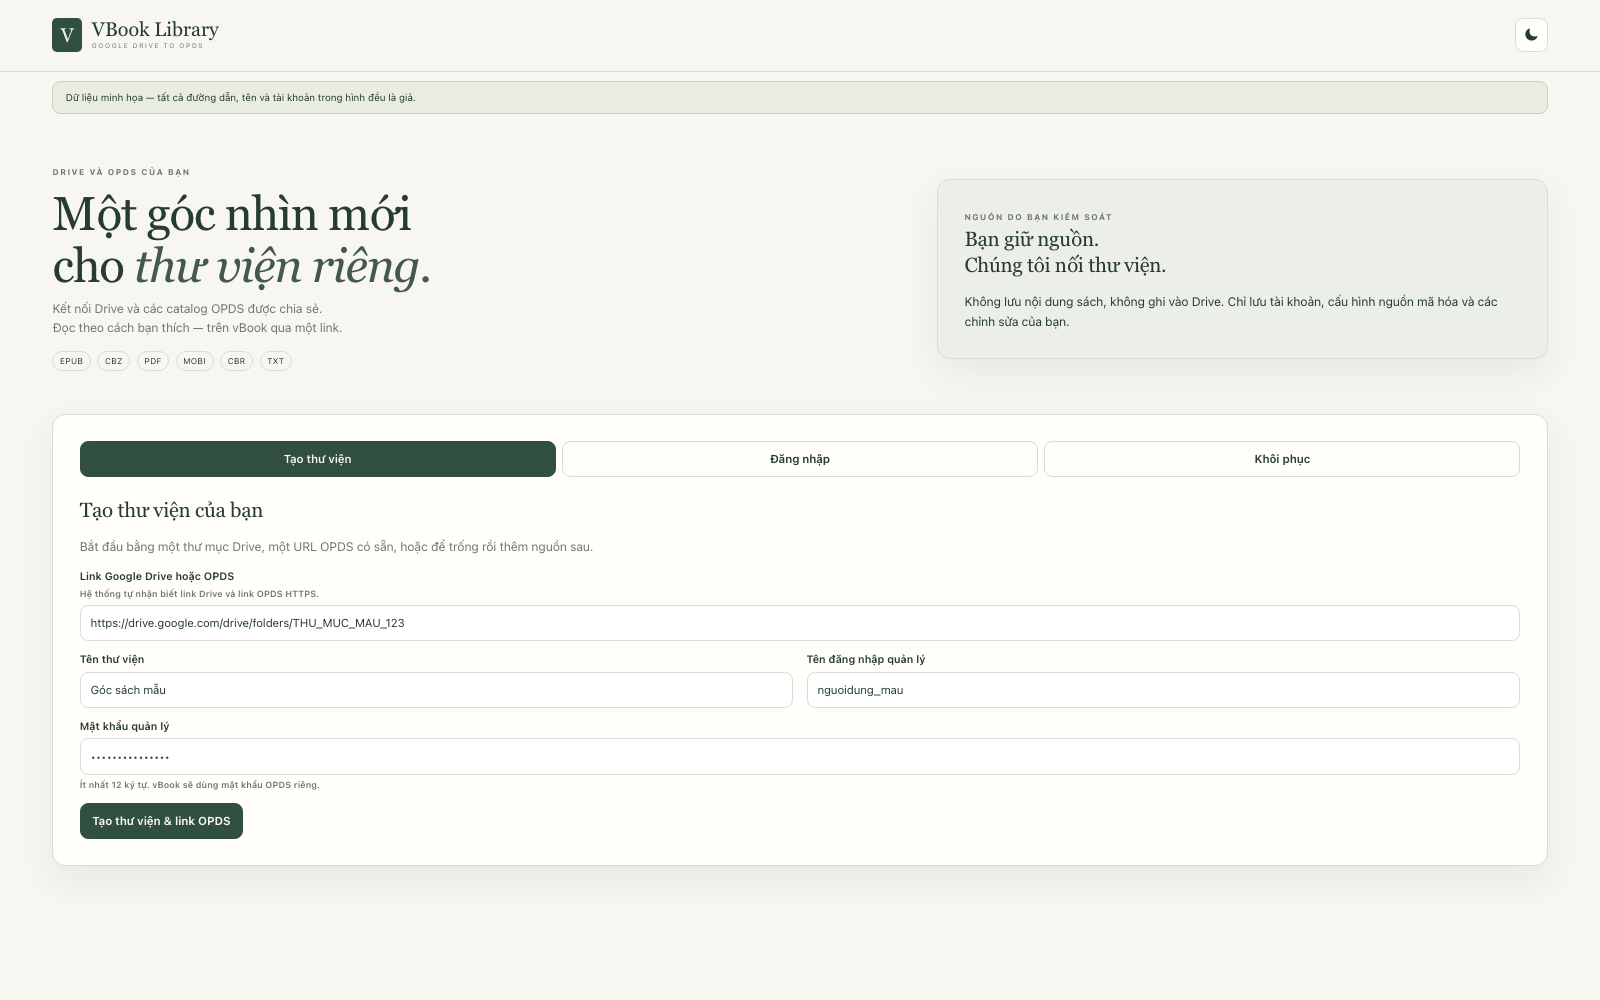
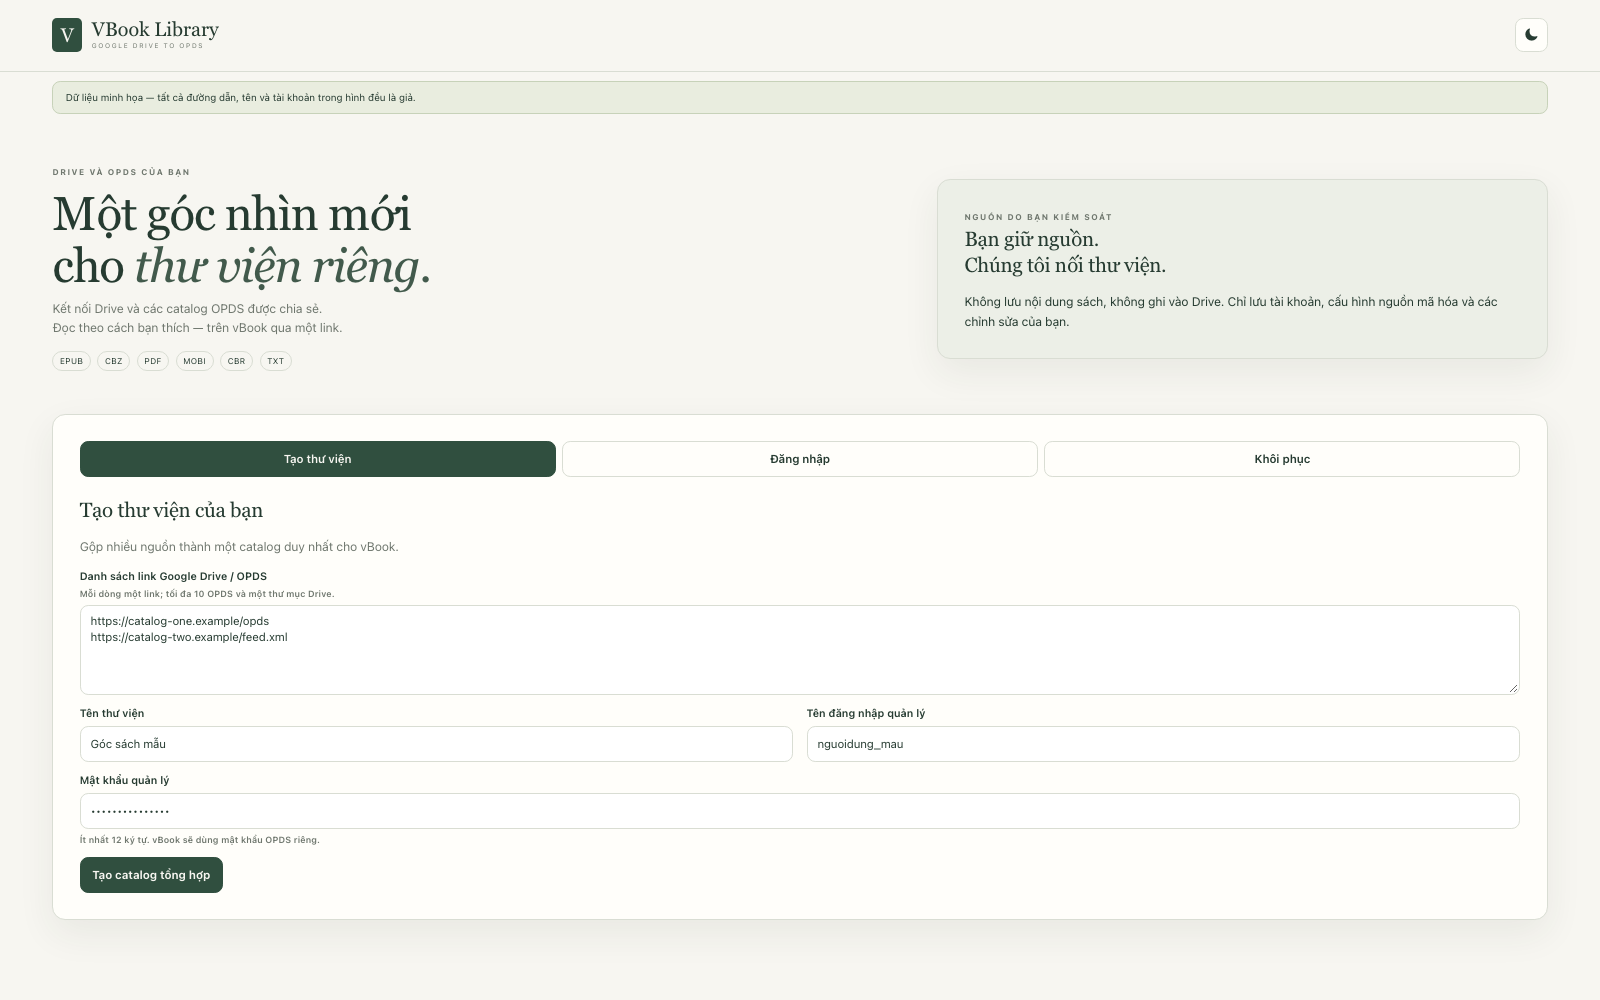
feat: create aggregate catalog from multiple OPDS URLs

Changed region(s): [[0.0312, 0.527, 0.3438, 0.899], [0.5, 0.651, 0.5938, 0.775]]

diff --git a/src/library-ui.ts b/src/library-ui.ts
@@ -4,7 +4,7 @@ export const libraryHtml = String.raw`<!doctype html>
 <main class="wrap"><div id="notice" role="status" aria-live="polite" hidden></div>
 <section id="welcome"><div class="hero"><div><p class="eyebrow">DRIVE VÀ OPDS CỦA BẠN</p><h1>Một góc nhìn mới<br>cho <em>thư viện riêng.</em></h1><p class="intro">Kết nối Drive và các catalog OPDS được chia sẻ.<br>Đọc theo cách bạn thích — trên vBook qua một link.</p><div class="tags"><span>EPUB</span><span>CBZ</span><span>PDF</span><span>MOBI</span><span>CBR</span><span>TXT</span></div></div><div class="intro-note"><span class="eyebrow">NGUỒN DO BẠN KIỂM SOÁT</span><h2>Bạn giữ nguồn.<br>Chúng tôi nối thư viện.</h2><p>Không lưu nội dung sách, không ghi vào Drive. Chỉ lưu tài khoản, cấu hình nguồn mã hóa và các chỉnh sửa của bạn.</p></div></div>
 <div class="entry-panel"><div class="tabs" role="group" aria-label="Truy cập thư viện"><button data-tab="create" class="active">Tạo thư viện</button><button data-tab="login">Đăng nhập</button><button data-tab="recovery">Khôi phục</button></div>
-<form id="create" class="access-form"><h2>Tạo thư viện của bạn</h2><p class="muted">Bắt đầu bằng một thư mục Drive, một URL OPDS có sẵn, hoặc để trống rồi thêm nguồn sau.</p><label>Link Google Drive hoặc OPDS <small>Hệ thống tự nhận biết link Drive và link OPDS HTTPS.</small><input name="drive" type="text" maxlength="2048" placeholder="https://drive.google.com/drive/folders/… hoặc https://catalog.example/opds"></label><div class="form-grid"><label>Tên thư viện<input name="name" required maxlength="120" placeholder="Góc sách của tôi"></label><label>Tên đăng nhập quản lý<input name="username" required maxlength="80" autocomplete="username"></label></div><label>Mật khẩu quản lý<input name="password" type="password" required minlength="12" maxlength="256" autocomplete="new-password"><small>Ít nhất 12 ký tự. vBook sẽ dùng mật khẩu OPDS riêng.</small></label><button class="primary" type="submit">Tạo thư viện & link OPDS</button></form>
+<form id="create" class="access-form"><h2>Tạo thư viện của bạn</h2><p class="muted">Gộp nhiều nguồn thành một catalog duy nhất cho vBook.</p><label>Danh sách link Google Drive / OPDS <small>Mỗi dòng một link; tối đa 10 OPDS và một thư mục Drive.</small><textarea name="drive" rows="4" maxlength="12000" placeholder="https://catalog-one.example/opds&#10;https://catalog-two.example/feed.xml"></textarea></label><div class="form-grid"><label>Tên thư viện<input name="name" required maxlength="120" placeholder="Góc sách của tôi"></label><label>Tên đăng nhập quản lý<input name="username" required maxlength="80" autocomplete="username"></label></div><label>Mật khẩu quản lý<input name="password" type="password" required minlength="12" maxlength="256" autocomplete="new-password"><small>Ít nhất 12 ký tự. vBook sẽ dùng mật khẩu OPDS riêng.</small></label><button class="primary" type="submit">Tạo catalog tổng hợp</button></form>
 <form id="login" class="access-form" hidden><h2>Trở lại thư viện</h2><label>Mã thư viện<input name="libraryId" required maxlength="80" autocomplete="off"></label><label>Tên đăng nhập<input name="username" required maxlength="80" autocomplete="username"></label><label>Mật khẩu<input name="password" type="password" required maxlength="256" autocomplete="current-password"></label><button class="primary">Đăng nhập</button></form>
 <form id="recovery" class="access-form" hidden><h2>Khôi phục tài khoản</h2><p class="muted">Mã khôi phục chỉ dùng một lần. Các phiên cũ và mật khẩu OPDS cũ sẽ bị thu hồi.</p><label>Mã thư viện<input name="libraryId" required maxlength="80"></label><label>Mã khôi phục<input name="code" required maxlength="100" autocomplete="off"></label><label>Mật khẩu mới<input name="password" type="password" required minlength="12" maxlength="256" autocomplete="new-password"></label><button class="primary">Khôi phục</button></form></div></section>
 <section id="dashboard" hidden><div class="section-head"><div><p class="eyebrow">THƯ VIỆN CỦA BẠN</p><h1 id="library-name">Thư viện</h1><p class="muted">Quản lý sách Drive và các nguồn OPDS được chia sẻ.</p></div><div class="section-actions"><button id="sources-button"><svg class="icon" viewBox="0 0 24 24" aria-hidden="true"><path d="M10 13a5 5 0 0 0 7.1.1l2-2a5 5 0 0 0-7.1-7.1l-1.1 1.1M14 11a5 5 0 0 0-7.1-.1l-2 2A5 5 0 0 0 12 20l1.1-1.1"/></svg>Nguồn OPDS <span id="source-count" class="button-count">0</span></button><button id="opds-button" class="primary">Kết nối vBook</button></div></div>

diff --git a/src/library.ts b/src/library.ts
@@ -110,14 +110,26 @@ api.post('/api/libraries', async c => {
   const name = stringInput(body.name, 120, 'Tên thư viện', true);
   const username = stringInput(body.username, 80, 'Tên đăng nhập', true);
   const password = passwordInput(body.password);
-  const input = stringInput(body.drive ?? '', 2048, 'Link Drive');
-  let folder = '', initialOpds: Record<string, unknown> | null = null;
-  if (input?.includes('://')) {
-    let parsed: URL; try { parsed = new URL(input); } catch { return fail(400, 'Link Drive hoặc OPDS không hợp lệ.'); }
-    if (parsed.hostname === 'drive.google.com') folder = extractFolderId(input) || '';
-    else initialOpds = { url: input };
-  } else if (input) folder = extractFolderId(input) || '';
-  if (input && !initialOpds && (!folder || !/^[\w-]{10,60}$/.test(folder))) return fail(400, 'Link thư mục Drive không hợp lệ.');
+  const input = stringInput(body.drive ?? '', 12000, 'Danh sách nguồn');
+  const inputs = [...new Set(input.split(/\r?\n/).map(value => value.trim()).filter(Boolean))];
+  if (inputs.length > 11) fail(400, 'Tối đa 10 nguồn OPDS và một thư mục Drive.');
+  let folder = '';
+  const initialOpds: Record<string, unknown>[] = [];
+  for (const value of inputs) {
+    if (value.includes('://')) {
+      let parsed: URL; try { parsed = new URL(value); } catch { return fail(400, 'Link Drive hoặc OPDS không hợp lệ.'); }
+      if (parsed.hostname === 'drive.google.com') {
+        if (folder) fail(400, 'Mỗi thư viện chỉ dùng tối đa một thư mục Drive.');
+        folder = extractFolderId(value) || '';
+        if (!folder) fail(400, 'Link thư mục Drive không hợp lệ.');
+      } else initialOpds.push({ url: value });
+    } else {
+      if (folder) fail(400, 'Mỗi thư viện chỉ dùng tối đa một thư mục Drive.');
+      folder = extractFolderId(value) || '';
+      if (!folder) fail(400, 'Folder ID không hợp lệ.');
+    }
+  }
+  if (initialOpds.length > 10) fail(400, 'Tối đa 10 nguồn OPDS khi tạo thư viện.');
   if (folder) {
     // Confirm the supplied resource really is a readable folder (including empty ones).
     const url = new URL(`https://www.googleapis.com/drive/v3/files/${folder}`);
@@ -128,12 +140,12 @@ api.post('/api/libraries', async c => {
     if (meta.mimeType !== 'application/vnd.google-apps.folder') fail(400, 'Link phải trỏ tới thư mục Drive.');
   }
   const id = crypto.randomUUID(), shortId = newShortId(), recovery = randomToken(), opds = randomToken();
-  const source = initialOpds ? await prepareSource(c.env.MASK_SECRET, id, initialOpds) : null;
+  const sources = await Promise.all(initialOpds.map(source => prepareSource(c.env.MASK_SECRET, id, source)));
   const now = Date.now();
   const statements = [c.env.DB.prepare('INSERT INTO libraries (id, short_id, name, root_token, username, password_hash, recovery_hash, opds_hash, created_at) VALUES (?, ?, ?, ?, ?, ?, ?, ?, ?)')
     .bind(id, shortId, name, folder ? await maskFolderId(folder, c.env.MASK_SECRET) : '', username, await hashPassword(password, undefined, c.env.MASK_SECRET), await digest(recovery), await digest(`reader:${opds}`), now)];
-  if (source) statements.push(c.env.DB.prepare('INSERT INTO opds_sources (id, library_id, short_id, name, config_token, enabled, created_at, updated_at) VALUES (?, ?, ?, ?, ?, 1, ?, ?)')
-    .bind(source.id, id, source.shortId, source.name, source.token, now, now));
+  statements.push(...sources.map(source => c.env.DB.prepare('INSERT INTO opds_sources (id, library_id, short_id, name, config_token, enabled, created_at, updated_at) VALUES (?, ?, ?, ?, ?, 1, ?, ?)')
+    .bind(source.id, id, source.shortId, source.name, source.token, now, now)));
   await c.env.DB.batch(statements);
   const csrf = await startSession(c, id, 0);
   const library = { id, short_id: shortId };

diff --git a/test/library.test.ts b/test/library.test.ts
@@ -48,7 +48,7 @@ globalThis.fetch = (async (input: any, init?: any) => {
     const headers = new Headers(init?.headers);
     if (headers.has('authorization')) assert.equal(headers.get('authorization'), 'Basic '+btoa('shared:source-secret'), 'Upstream credential is only sent by the proxy');
     if (url.pathname === '/book.epub') return new Response('fake-epub', {headers:{'Content-Type':'application/epub+zip','Content-Disposition':'attachment; filename="sample.epub"'}});
-    const title = url.pathname === '/sub' ? 'Kệ con' : 'Kho sách được chia sẻ';
+    const title = url.pathname === '/sub' ? 'Kệ con' : url.pathname === '/second' ? 'Kho thứ hai' : 'Kho sách được chia sẻ';
     return new Response(`<?xml version="1.0"?><feed xmlns="http://www.w3.org/2005/Atom"><id>urn:fake:${url.pathname}</id><title>${title}</title><link rel="subsection" href="/sub"/><entry><id>urn:fake:book</id><title>Sách mẫu</title><link rel="http://opds-spec.org/acquisition" href="/book.epub" type="application/epub+zip"/><link rel="http://opds-spec.org/image" href="https://images.example/cover.jpg"/></entry></feed>`, {headers:{'Content-Type':'application/atom+xml;charset=utf-8'}});
   }
   assert.equal(url.hostname, 'www.googleapis.com', 'Only Google API metadata is fetched by the backend');
@@ -182,12 +182,12 @@ test('external OPDS sources aggregate behind short authenticated proxy links', a
   changed=await h.req(base(a)+'/sources/'+source.id,'DELETE',{});assert.equal(changed.status,200);assert.deepEqual((await changed.json() as any).sources,[]);
   assert.equal((await h.req(base(a)+'/sources','POST',{sources:[{url:'https://127.0.0.1/opds'}]})).status,400);
 });
-test('a pasted OPDS URL creates an external-only library and adds its first source',async()=>{
+test('multiple pasted OPDS URLs create one aggregate catalog without Drive',async()=>{
   const h=harness();const before=driveCalls;
-  const a=await h.signIn(await h.req('/api/libraries','POST',{name:'Kho OPDS',drive:'https://catalog.example/opds',username:'owner',password:'long-password-123'}));
+  const a=await h.signIn(await h.req('/api/libraries','POST',{name:'Kho OPDS',drive:'https://catalog.example/opds\nhttps://catalog.example/second',username:'owner',password:'long-password-123'}));
   assert.equal(driveCalls,before);const items=await(await h.req(base(a)+'/items')).json() as any;assert.deepEqual(items.items,[]);
-  const sources=await(await h.req(base(a)+'/sources')).json() as any;assert.equal(sources.sources.length,1);assert.equal(sources.sources[0].name,'Kho sách được chia sẻ');
-  const aggregate=await h.req('/o/'+a.library.shortId,'GET',undefined,auth(a));assert.equal(aggregate.status,200);assert.match(await aggregate.text(),/Kho sách được chia sẻ/);
+  const sources=await(await h.req(base(a)+'/sources')).json() as any;assert.equal(sources.sources.length,2);assert.deepEqual(sources.sources.map((source:any)=>source.name),['Kho sách được chia sẻ','Kho thứ hai']);
+  const aggregate=await h.req('/o/'+a.library.shortId,'GET',undefined,auth(a));assert.equal(aggregate.status,200);const xml=await aggregate.text();assert.match(xml,/Kho sách được chia sẻ/);assert.match(xml,/Kho thứ hai/);
 });
 test('same Drive file has isolated overrides and capabilities for each library', async()=>{
   const h=harness(),a=await h.create();const aItems=await(await h.req(base(a)+'/items')).json() as any;

diff --git a/README.md b/README.md
@@ -1,4 +1,4 @@
-# VBook Library / OPDS Gateway — v1.6.1
+# VBook Library / OPDS Gateway — v1.6.2
 
 Giao diện quản lý thư viện Google Drive và các catalog OPDS được chia sẻ dành cho vBook. Web có thể gộp hai loại nguồn vào một link OPDS ngắn, có tài khoản riêng.
 
@@ -74,7 +74,7 @@ https://drive.google.com/drive/folders/THU_MUC_MAU_123
 
 ### 2. Tạo thư viện
 
-Mở VBook Library, chọn **Tạo thư viện**, rồi nhập tên thư viện, tên đăng nhập và mật khẩu quản lý dài ít nhất 12 ký tự. Ô nguồn tự nhận biết link `drive.google.com` hoặc URL OPDS HTTPS. Nếu nhập OPDS, nguồn đó được thêm ngay khi tạo thư viện; bạn cũng có thể để trống và thêm nhiều nguồn ở bước 3.
+Mở VBook Library, chọn **Tạo thư viện**, rồi dán mỗi nguồn trên một dòng. Hệ thống nhận tối đa 10 URL OPDS HTTPS và một link `drive.google.com`, sau đó gộp tất cả vào cùng một catalog. Nhập tên thư viện, tên đăng nhập và mật khẩu quản lý dài ít nhất 12 ký tự; bạn cũng có thể để trống danh sách và thêm nguồn ở bước 3.
 
 ![Giao diện tạo thư viện với dữ liệu giả](docs/images/tao-thu-vien.png)
 
